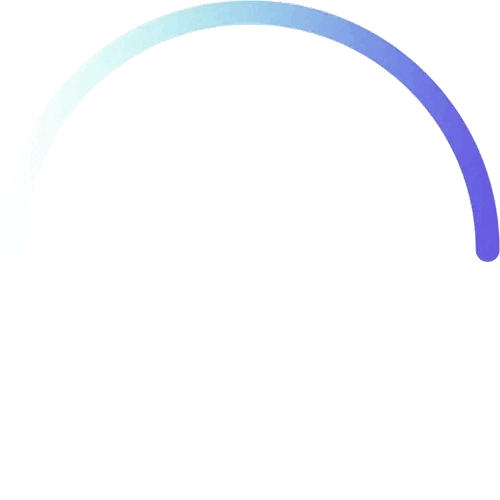
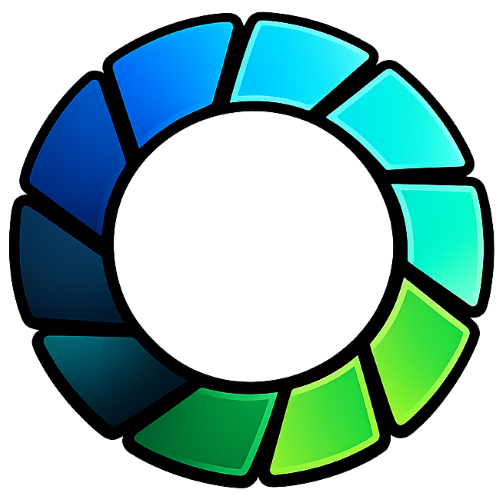
new loading spinner

diff --git a/Modules/LoadingScreen.cs b/Modules/LoadingScreen.cs
@@ -98,7 +98,7 @@ internal static class LoadingScreen
                 if (LoadingAnimation.transform.position != new Vector3(x, y, z))
                     LoadingAnimation.transform.position = new(x, y, z);
 
-                LoadingAnimation.transform.Rotate(Vector3.forward, 200f * Time.deltaTime);
+                LoadingAnimation.transform.Rotate(Vector3.back, 200f * Time.deltaTime);
             }
 
             visible &= !GameStates.IsEnded;

diff --git a/CHANGELOG.md b/CHANGELOG.md
@@ -30,13 +30,14 @@
 ## Additions
 - New setting under `Apply DenyName List`: `Ban instead of kick on trigger`
 
-### New game mode: Loop Wanted - by HayashiUme
-- Every player has an assigned assassination target marked with an arrow.
-- You can ONLY kill your designated target.
-- Killing the wrong target results in a punishment (suicide / lower vision).
-- When you kill your target, you inherit their target.
-- When only a few players remain, Carnival Mode activates: everyone gets a speed boost and reduced kill cooldown.
-- Last player alive wins!
+### New game mode: Doom Tag - by HayashiUme
+- In the Doom Tag gamemode, every player is assigned a target, shown by an arrow.
+- You can only kill your assigned target.
+- Killing the wrong player will result in a punishment, such as death or reduced vision.
+- When you eliminate your target, you inherit their target and continue the hunt.
+- As more players are eliminated, the circle grows smaller and the pressure increases.
+- When only a few players remain, Carnival Mode activates. All remaining players receive a speed boost and a reduced kill cooldown, turning the final showdown into a fast-paced battle for survival.
+- Be the last player standing to win!
 
 > [!WARNING]
 > If you're joining a lobby hosted on vanilla regions (NA/EU/AS), please make sure you have a vanilla region selected in the Create Game menu, otherwise authentication will fail. ("Sabotage! The Among Us servers could not authenticate you!")